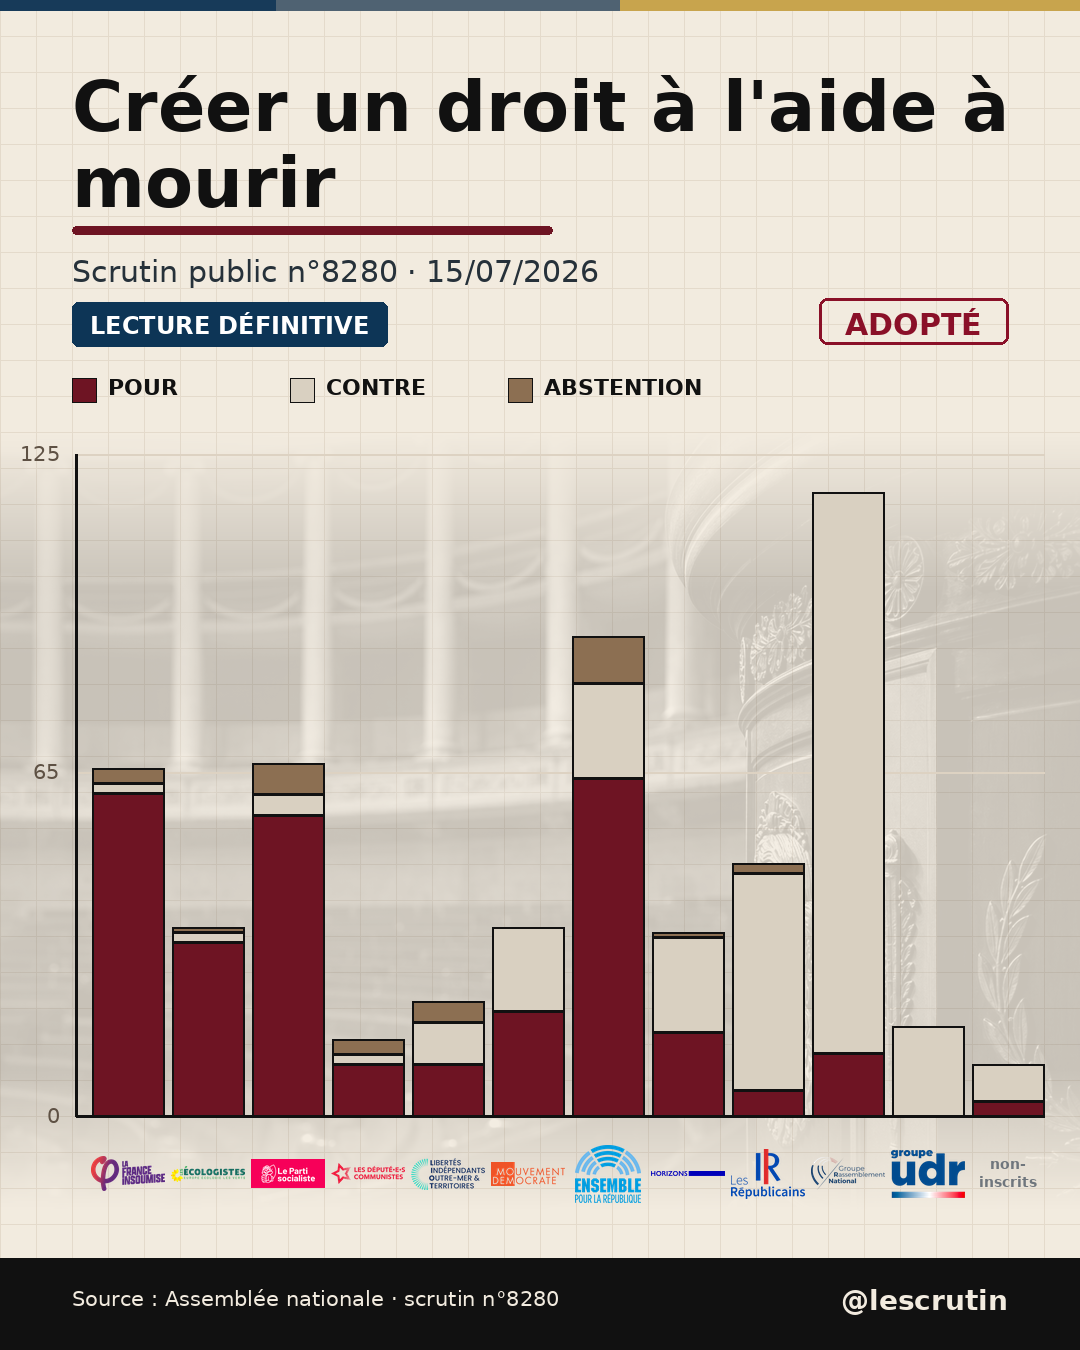
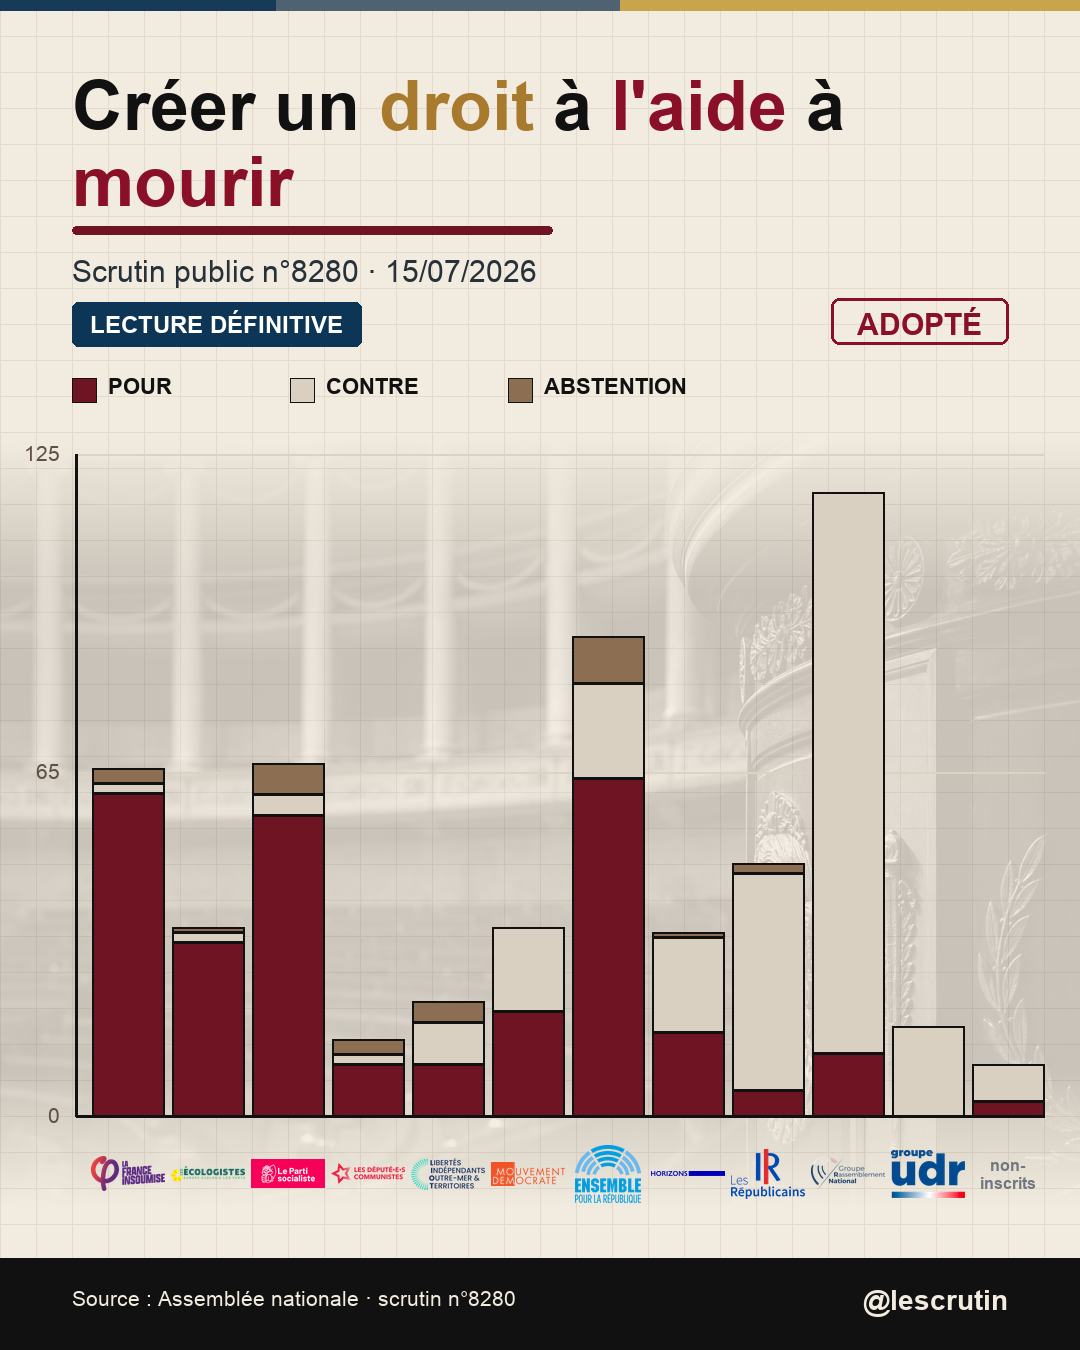
Color key title words for vote 8280 [publish-vote-now]

diff --git a/src/assemblee_votes/visual.py b/src/assemblee_votes/visual.py
@@ -104,11 +104,21 @@ def _result_word(scrutin: dict[str, Any]) -> str:
 
 def _title_color(word: str, default: str) -> str:
     clean = word.upper().strip(".,;:!?()[]{}«»\"'")
+    normalized = clean.removeprefix("L'").removeprefix("D'").removeprefix("L’").removeprefix("D’")
     if "ÉTAT" in clean or "ETAT" in clean or clean in {"ASSEMBLÉE", "ASSEMBLEE"}:
         return "#0D3556"
-    if clean in {"PATRIMOINE", "IMMOBILIER", "LOGEMENT", "SÉCURITÉ", "SECURITE", "MINEURS"}:
+    if normalized in {
+        "AIDE",
+        "MOURIR",
+        "PATRIMOINE",
+        "IMMOBILIER",
+        "LOGEMENT",
+        "SÉCURITÉ",
+        "SECURITE",
+        "MINEURS",
+    }:
         return "#8A1028"
-    if clean in {"LOI", "VOTE", "TEXTE"}:
+    if normalized in {"DROIT", "LOI", "VOTE", "TEXTE"}:
         return "#A77A2D"
     return default
 
